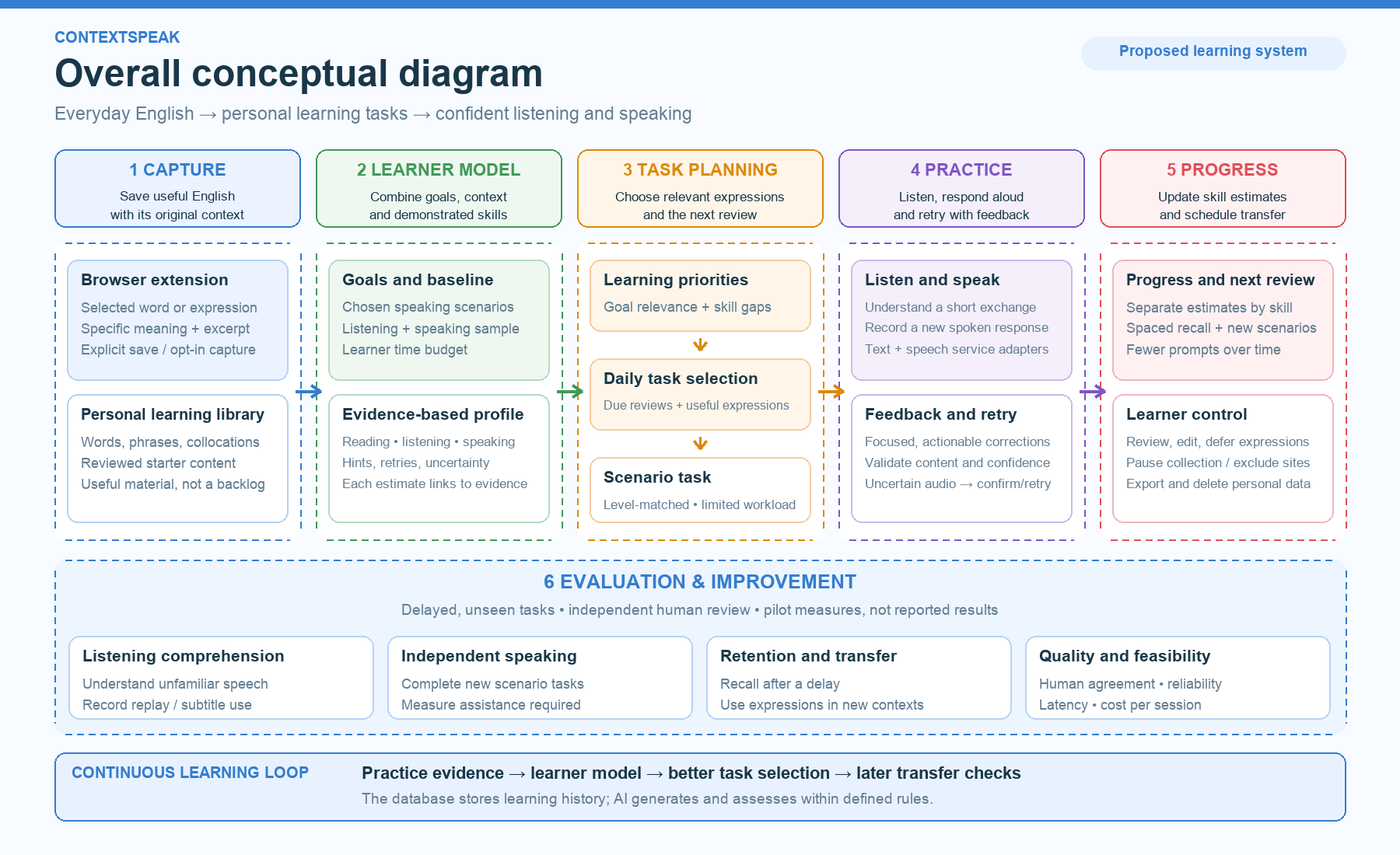
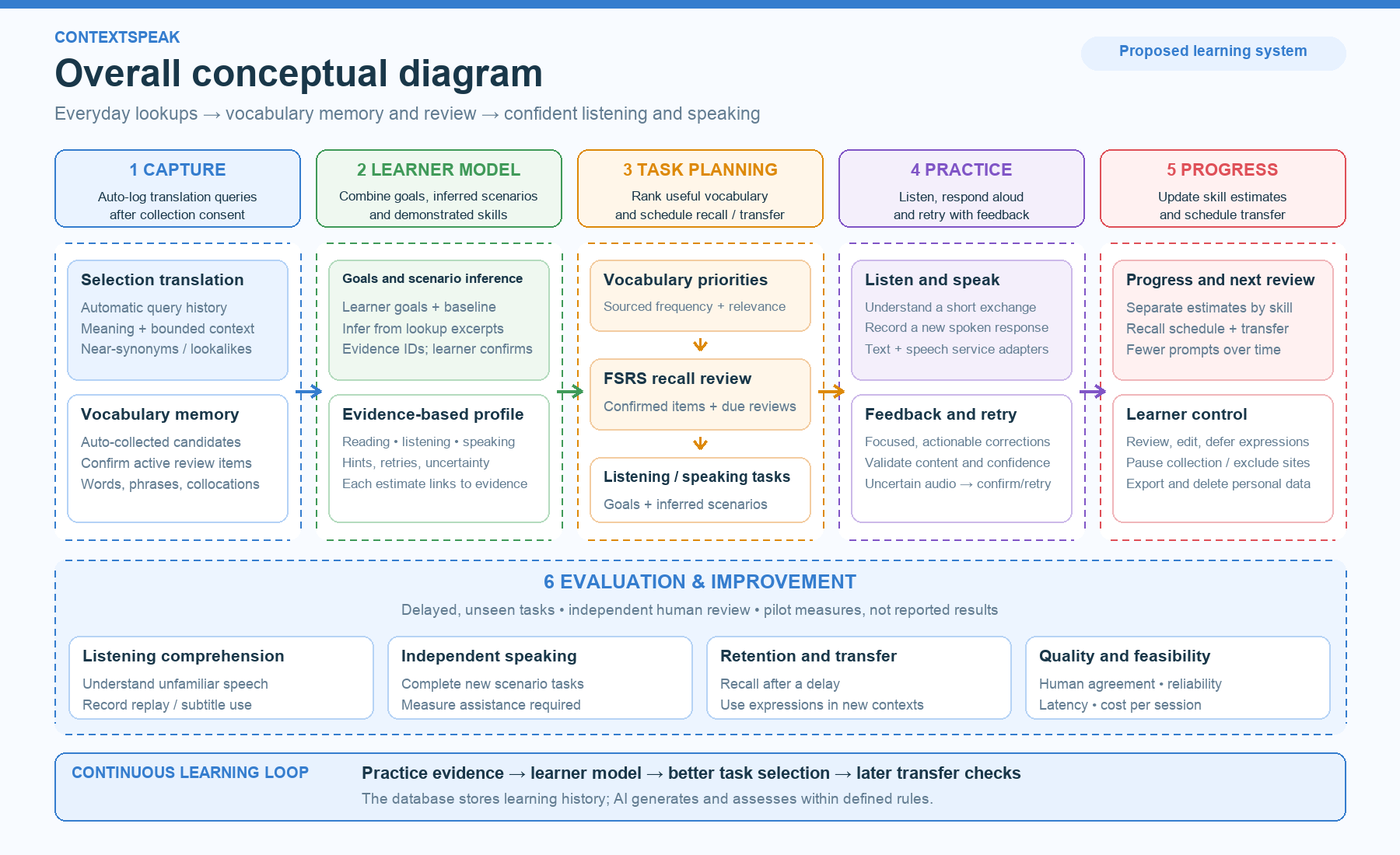
docs: align client requirements and plan first coding slice

diff --git a/docs/ARCHITECTURE.md b/docs/ARCHITECTURE.md
@@ -1,71 +1,82 @@
 # Architecture design
 
-## Technology
+## Stack and service choices
 
-Proposed TypeScript stack: WXT + React extension, Next.js website, NestJS modular backend, PostgreSQL, Redis/BullMQ workers, and private S3-compatible audio storage. Use direct model/speech SDKs behind provider adapters.
+TypeScript throughout: WXT + React extension, Next.js website, NestJS modular backend, PostgreSQL, Redis/BullMQ workers, and private S3-compatible audio storage. Start with SQL retrieval and direct SDKs; RAG, LangChain, separate Python services, and microservices are deferred.
 
-Start with SQL retrieval. Add semantic retrieval/RAG only when needed; no dedicated crawler, LangChain, Python service, or microservices split is required for MVP.
+| Capability | Initial proposal |
+| --- | --- |
+| Selection translation | DeepL official API behind `TranslationProvider`; compare Microsoft Translator during M0. Use a deterministic fixture adapter for local development. |
+| Definitions and spelling candidates | `LexicalProvider` with a separately approved dictionary; no bundled dictionary until license review. Development uses original fixture entries. |
+| Meaning/examples and scenario inference | Structured-output text adapter, asynchronous expansion/inference, validation and reviewed fallback. |
+| Word frequency | Versioned `FrequencyProvider`; source/license decision required before pilot; missing data is explicit. |
+| Recall scheduling | ts-fsrs behind a pure review adapter; pin version and preserve license notices when installing. |
+| Listening and conversation | Separate speech-recognition/text/synthesis adapters; providers chosen after quality/cost trials. |
+
+Use only authorized official service credentials. Cache lexical/translation results only as permitted, keyed by language, sense/context, and provider version; keep private context scoped to its owner. Do not silently send content to an alternate provider on failure.
 
 ## Components
 
 ```mermaid
 flowchart TB
-    extension["Chrome extension"] --> api["API: authentication and ownership"]
-    web["Learning website"] --> api
-    api --> library["Library and sync"]
-    api --> planner["Task planning and review"]
-    api --> practice["Practice and assessment"]
+    extension["Extension: translate, auto-log, expand"] --> api["API and ownership checks"]
+    web["Responsive learning website"] --> api
+    api --> library["History and vocabulary memory"]
+    api --> planning["Scenario inference, ranking, FSRS"]
+    api --> practice["Listening, speaking, assessment"]
+    api --> adapters["Translation and lexical adapters"]
+    adapters --> translation["Official translation / dictionary services"]
     library --> db["PostgreSQL and transactional outbox"]
-    planner --> db
+    planning --> db
     practice --> db
     practice --> audio["Private audio storage"]
-    practice --> ai["Provider adapters"]
     db -->|"Outbox dispatcher"| queue["Job queue"]
-    queue --> workers["Workers"]
-    workers --> ai
+    queue --> workers["Expansion, inference, audio workers"]
     workers --> db
+    workers --> ai["Text and speech adapters"]
     workers --> audio
-    ai --> providers["Text, speech recognition, speech synthesis"]
+    ai --> providers["Model and speech providers"]
 ```
 
-One backend deployment with clear modules and separately runnable workers. Longer generation, assessment, and cleanup jobs expose status and recoverable errors.
+One modular backend plus workers. The website supports PC/mobile browsers; mobile-wide selection capture is not provided by the desktop extension. PWA/native capabilities are separate roadmap work.
 
 ## Core flows
 
-**Capture:** user saves selected text → durable local outbox → authenticated API → database commit → acknowledgement. Scope event IDs by user for deduplication; retries return the same result. Keep state durable because extension service workers can stop.
+**Lookup:** detect explicit selection-translation request → check collection settings/site eligibility → persist eligible event in durable local outbox → translate via backend → acknowledge committed history/candidate. Capture intent does not depend on translation success. Collection-off requests can translate without persisting learner content. Expansion has independent loading/failure states.
 
-**Practice:** planner selects relevant items → validated exercise → listening and recorded response → authorized audio upload → speech recognition and assessment → eligible skill update → next review. Typed alternatives do not count as spoken evidence.
+**Sync:** scope client event ID by authenticated owner; commit encounter, candidate upsert, and job outbox atomically. Same event replay has no additional side effects; a later genuine lookup of the same expression is a new encounter. Preserve unresolved meanings. Local state survives extension-worker suspension.
+
+**Personalization:** eligible history batch → scenario suggestions with source IDs/confidence → learner confirmation → versioned priorities and daily tasks. Activation is separate from collection; review submission updates FSRS once. Assessment-based reading/listening/speaking updates use separate evidence rules.
+
+**Voice:** validated task → user-initiated recording → bounded private upload → recognition/assessment → feedback and eligible skill update. Typed fallback preserves progress but is not spoken evidence.
 
 ## Data model
 
 | Group | Records |
 | --- | --- |
-| Learner | User, goals, consent/preferences |
-| Library | Learning item (specific sense/expression), source encounter |
-| Practice | Versioned exercise, attempt, hint/replay use, retry relationship |
-| Evidence | Assessment, rubric/model version, confidence, eligibility |
-| Progress | Separate skill states, review schedule |
-| Operations | Audio asset, outbox event, job status, usage/cost event |
+| Learner | User, goal, collection consent/preferences |
+| Memory | LookupEvent, LearningItem (candidate/active/archived), Encounter link, LexicalSuggestion |
+| Personalization | ScenarioSuggestion with evidence IDs, accepted goal link, versioned PriorityScore/frequency provenance |
+| Practice | Exercise, Attempt, hints/replays, retry relationship, explicit RecallRating |
+| Evidence and progress | Assessment/version/confidence/eligibility, SkillState, FSRS ReviewSchedule |
+| Operations | AudioAsset, transactional OutboxEvent, Job, content-free UsageEvent |
 
-Store attempts as evidence and skill states as rebuildable projections. Preserve ownership on every relationship; apply an assessment update once. Model context is not the persistent memory store.
+Attempts are evidence; skill states are rebuildable projections. Require ownership across linked records and idempotent updates. Define API contracts for the first flow in the [coding plan](superpowers/plans/2026-11-07-capture-to-library.md).
 
-## Reliability and privacy
+## Operational rules
 
-- Save domain changes and outbox events in one transaction. Use idempotent workers, bounded retries, timeouts, and provider budgets; repeated external calls can still incur charges.
-- Collect only selected text and bounded context; exclude forms and credentials, sanitize source URLs, and support pause/site exclusions.
-- Derive ownership from the authenticated session; enforce it in APIs, jobs, and storage. Protect cookie-authenticated changes from CSRF.
-- Keep secrets server-side, audio private, access URLs short-lived, and raw learner content out of general logs.
-- Treat webpage excerpts as untrusted data. Validate model output and use reviewed fallback tasks when generation fails.
-- Deletion revokes access, tombstones the account, cancels jobs, and removes active data/audio. Late jobs and restored backups must honor deletion; retention periods are set before pilot.
+- Bound excerpt length, recording size/duration, retries, provider concurrency, and per-user spending. Monitor errors, p50/p95 latency, queue age, and session cost.
+- Exclude forms/credentials/restricted pages, strip URL query strings/fragments, and honor consent/site changes before sending queued content. Never collect full history or record in the background.
+- Authenticate server-side; enforce owner scoping in API, worker, and storage. Protect cookie-based changes from CSRF. Secrets stay server-side; logs exclude raw excerpts, recordings, tokens, and signed URLs.
+- Treat excerpts as untrusted data; validate model outputs and provide reviewed fallbacks. A model cannot assign itself tool permissions.
+- Use transactional outbox, idempotent workers, timeouts, bounded retry, and visible failures. Duplicate external calls may still cost money.
+- Account deletion revokes access, tombstones the user, cancels work, and removes active data/audio. Late jobs and restored backups honor tombstones; agree retention before pilot.
+- Separate dev/staging/production. Verify ownership, retry/consent races, evidence eligibility, deletion, restore, and the full journey before release.
 
-## Delivery structure
-
-Proposed workspace: `apps/{extension,web,api,worker}` and `packages/{contracts,learning-core,ai-adapters,ui}`. Pin versions when scaffolding.
-
-Separate development, staging, and production. Verify sync retries, ownership, assessment eligibility, audio failure, deletion, and capture-to-practice behavior. Monitor latency, queue age, errors, and session cost; rehearse backup restore and rollback before pilot. Scale from measured load.
+Proposed workspace: `apps/{extension,web,api,worker}`, `packages/{contracts,learning-core,ai-adapters,ui}`. Scaffold only the pieces needed for the first slice, with pinned compatible versions.
 
 ## References
 
-- [WXT](https://wxt.dev/)
-- [Chrome content scripts](https://developer.chrome.com/docs/extensions/develop/concepts/content-scripts)
-- [Chrome service workers](https://developer.chrome.com/docs/extensions/develop/concepts/service-workers)
+- [WXT](https://wxt.dev/), [Chrome service workers](https://developer.chrome.com/docs/extensions/develop/concepts/service-workers)
+- [DeepL API](https://developers.deepl.com/docs/getting-started/quickstart), [Microsoft translation](https://learn.microsoft.com/en-us/azure/ai-services/translator/text-translation/overview)
+- [NestJS authentication](https://docs.nestjs.com/security/authentication)

diff --git a/docs/superpowers/plans/2026-11-07-capture-to-library.md b/docs/superpowers/plans/2026-11-07-capture-to-library.md
@@ -1,0 +1,73 @@
+# Capture-to-Library Implementation Plan
+
+> **For agentic workers:** Use superpowers:executing-plans to implement this plan task-by-task. Steps use checkboxes for tracking.
+
+**Goal:** Demonstrate one consented selection-translation query appearing once in the same learner's website history and vocabulary candidates.
+
+**Architecture:** WXT extension → authenticated NestJS API → PostgreSQL → Next.js library. Use deterministic translation fixtures first; integrate DeepL only after the flow works. This is a local developer slice, not a pilot release or completed M1.
+
+**Tech Stack:** TypeScript, pnpm workspace, React/WXT, Next.js, NestJS, PostgreSQL, Prisma, Zod, Vitest, Supertest, Playwright; proposed implementation defaults, versions pinned during scaffold.
+
+**Spec:** [Architecture](../../ARCHITECTURE.md), [methodology](../../METHODOLOGY.md), [product plan](../../PLANNING.md).
+
+## Global constraints
+
+- English throughout; independent implementation, no FluentRead code/assets.
+- Collection-off requests can translate without persisting learner content.
+- Persist eligible lookup intent independently of translation success.
+- Derive ownership from verified identity, never a client owner field.
+- No paid calls, speech, inferred scenarios, or queue infrastructure needed for this slice.
+
+## Review focus
+
+- Consent revoked while a query is queued: discard it before upload (Task 3).
+- Same event ID with changed payload: reject conflict, do not overwrite (Task 2).
+- Another learner uses the same event ID: isolate records by owner (Task 2).
+- Translation fails after capture: retain pending history and show retry (Tasks 2/4).
+- Ambiguous sense or a repeated word: preserve unresolved sense and separate encounters (Task 2).
+
+## Task 1 — Contracts and authenticated API boundary
+
+**Files:** root `package.json`, `pnpm-workspace.yaml`, `compose.yaml`, `.env.example`; `packages/contracts/src/lookup.ts`; `apps/api/src/auth/{identity,jwt.guard}.ts`; `apps/api/test/auth.e2e-spec.ts`.
+
+**Interfaces:** `LookupInput = { eventId: UUID; text: string; context?: string; sourceUrl?: string; sourceLanguage: string; targetLanguage: string }`; `Identity = { issuer: string; subject: string }`; `verifyBearer(token: string): Promise<Identity>`. Text limit: 200 Unicode code points; context: 1,000; canonical source URL excludes credentials/query/fragment. No client-supplied owner.
+
+- [ ] Scaffold only contracts, API, web, and extension workspaces; pin compatible versions and add root `typecheck`/`test` scripts.
+- [ ] Add `rejects_missing_expired_wrong_audience_and_unsigned_tokens` using a local test JWKS issuer; assert HTTP 401 and no domain writes. Run `pnpm --filter @contextspeak/api test -- auth.e2e-spec.ts`; confirm failure before the guard exists.
+- [ ] Implement signature, issuer, audience, and expiry validation. Resolve identity by issuer+subject. Synthetic short-lived test identities support local development only; no production auth bypass or registration endpoint.
+- [ ] Run the test and `pnpm typecheck`; require passes. Commit the boundary. Real hosted login/pairing is required before pilot and is outside this slice.
+
+## Task 2 — Durable history and candidate API
+
+**Files:** `apps/api/prisma/schema.prisma`; `apps/api/src/library/{library.controller,library.service,translation.provider}.ts`; `apps/api/test/library.e2e-spec.ts`.
+
+**Interfaces:** `POST /v1/lookups` consumes `LookupInput` and returns `{ lookupId, candidateId, translationStatus: 'pending' }`; `GET /v1/lookups?limit=20&cursor=...` returns owned history; `GET /v1/learning-items` returns owned candidates. `TranslationProvider.translate(input): Promise<{ meaning: string; provider: string }>` uses original fixture entries. Reject capture with HTTP 403 when server collection consent is off. `POST /v1/translations` works without collection and does not persist request text.
+
+- [ ] Write integration tests against local PostgreSQL: `replay_is_idempotent`, `changed_payload_conflicts` (409), `same_id_different_owner_is_isolated`, `real_repeat_adds_encounter`, `unresolved_sense_is_preserved`, `collection_off_does_not_write`, `translation_failure_keeps_lookup`. Assert event/item counts and owner-filtered responses. Run `pnpm --filter @contextspeak/api test -- library.e2e-spec.ts`; confirm failures.
+- [ ] Implement transactions and unique `(userId, eventId)` constraint; normalize surface/language, preserve unresolved sense, and link subsequent encounters without pretending sense certainty. Replay returns the original IDs; translation failure cannot roll back capture.
+- [ ] Implement bounded local translation dispatch and pending/failed status; pending work resumes on local API startup. No Redis dependency yet. Reject conflicts, invalid lengths, invalid URLs, and unsupported fixture pairs without a successful fake translation.
+- [ ] Run integration tests, migrations on a fresh local database, and typecheck. Commit. Async expansion, real dictionary data, and production outbox dispatch remain subsequent M1 work.
+
+## Task 3 — Extension capture and replay
+
+**Files:** `apps/extension/entrypoints/{content,background}.ts`; `apps/extension/src/{outbox,settings}.ts`; `apps/extension/test/outbox.test.ts`.
+
+**Interfaces:** `enqueueLookup(input: LookupInput): Promise<void>`; `flushOutbox(): Promise<void>`; `CollectionSettings = { enabled: boolean; excludedOrigins: string[] }`. Each genuine query receives a new UUID; retries reuse it. Auth uses a local short-lived test token for this developer demo, never an API key; expired identity pauses sync.
+
+- [ ] Test `offline_replay_survives_restart`, `ack_lost_replays_same_id`, `revoked_consent_discards_pending`, `excluded_origin_never_captures`, and `expired_identity_pauses_without_loss`. Run `pnpm --filter @contextspeak/extension test -- outbox.test.ts`; confirm failures.
+- [ ] Persist eligible queries in extension-local storage before upload. Recheck current consent and site eligibility before transmission; sanitize/exclude form inputs and restricted pages. Show pending, failed, and synchronized states. Consent-off translation sends no collection event.
+- [ ] Run tests and load the unpacked extension on a local fixture webpage. Verify one query, then offline/restart/replay. Commit.
+
+## Task 4 — Website and end-to-end proof
+
+**Files:** `apps/web/app/library/page.tsx`; `apps/web/src/api.ts`; `tests/e2e/capture-to-library.spec.ts`; update root `README.md` with actual setup commands.
+
+**Interfaces:** Display the history/candidate responses from Task 2 under the same verified identity. Candidate status is visible; activation and FSRS are the next slice, not fake completed features.
+
+- [ ] Write an end-to-end test using a persistent Chromium context, unpacked extension, local test identities, API, database, and fixture webpage. Assert the selected expression appears once on the website, event replay adds no row, a second genuine lookup adds an encounter, a different identity cannot see it, and a translation error leaves history visible. Run `pnpm test:e2e`; confirm failure before UI implementation.
+- [ ] Implement the library, translation/pending/error display, and local-demo identity wiring; no hidden production bypass. Make the fixture test suite independent of paid providers.
+- [ ] Run `pnpm typecheck`, `pnpm test`, and `pnpm test:e2e`; require all passes. Perform a real Chrome manual check because extension behavior can differ from the automated Chromium harness. Record supported versions and exact setup commands; commit.
+
+## Exit and next slice
+
+Done means a real extension query is durable, private to its learner, replay-safe, and visible on the website. It does not mean the product is pilot-ready. Next: real login/pairing + translation/lexical expansion to finish M1, then confirmed activation + FSRS review, followed by voice and scenario inference. Review this plan before application scaffolding.

diff --git a/docs/PLANNING.md b/docs/PLANNING.md
@@ -1,39 +1,52 @@
 # Product plan
 
-## MVP scope
+## Requirements mapping
 
-| Surface | Included |
+| Client requirement | MVP response |
 | --- | --- |
-| Chrome extension | Contextual selection translation, saved expressions, minimal source context, retryable sync |
-| Learning website | Goals, baseline assessment, personal library, daily tasks, listening, recorded conversation, progress |
-| Account controls | Shared login, collection preferences, export, and deletion |
+| Automatic personal vocabulary memory | After consent, every selection-translation query enters history and produces a vocabulary candidate; confirmed items enter scheduled review. |
+| Infer language-use scenarios | Suggest scenarios from authorized lookup context, with evidence and learner correction; no full browsing-history collection. |
+| Prioritize high-frequency words | Rank useful learning items using a sourced frequency signal, personal context, goals, and reliable skill gaps. |
+| Know what the learner has mastered | Separate reading, listening, and independent speaking estimates with traceable practice evidence. |
+| Expand vocabulary during lookup | Show up to two useful near-synonyms and two spelling lookalikes asynchronously, with differences and examples where appropriate. |
+| Generate listening/speaking practice | Use confirmed vocabulary and learner scenarios for level-matched tasks and delayed transfer. |
+| Extension, PC, and mobile | Chrome desktop extension plus responsive website on PC/mobile; native apps follow usage validation. |
+| Multiple languages and school roles | Adult English is the first segment; multilingual and teacher/student support are later phases. |
 
-Initial proposal: adult learners, a small set of everyday/work scenarios, optional 10–15 minute sessions, explicit saving by default, and turn-based voice. Reviewed starter tasks support users with no saved expressions.
+Automatic history/candidates versus confirmed review enrollment is a proposed compromise to validate before pilot. Do not silently treat the narrower first segment as the complete client deliverable.
 
-Deferred: native apps, school roles, broad crawling, background recording, full-duplex voice, and custom model training.
+## Delivery roadmap
 
-## Delivery milestones
+| Stage | Deliverable and acceptance |
+| --- | --- |
+| M0 — Validate | Confirm first three scenarios, collection consent, speech quality, provider costs, and pilot gates. Prototype the journey. |
+| M1 — Capture and remember | Login, selection translation/expansion, automatic history/candidates, library, and durable sync; verify no duplicate events or lost acknowledged queries. |
+| M2 — Review and practice | Confirm active items; FSRS-based explicit recall review; listening and recorded responses; recover from microphone, upload, and provider failures. |
+| M3 — Personalize | History-based scenario suggestions, sourced word priorities, and skill updates; learner can inspect/correct suggestions; low-confidence/assisted attempts do not inflate mastery. |
+| M4 — Pilot | Export/deletion, usage limits, monitoring, restore rehearsal, responsive-device checks, and held-out learning evaluation. |
+| P2 — Expand access | Evaluate installable PWA/offline support and native mobile apps; desktop-native capture only if demand justifies it. |
+| P3 — Education and languages | Teacher/student permissions, class goals, approved curriculum content, minors safeguards, and additional languages. |
 
-| Milestone | Deliverable | Acceptance criteria |
-| --- | --- | --- |
-| M0 — Validate | First scenarios, clickable journey, speech feasibility | Learners understand the flow; measure speech quality, latency, and session cost; agree pilot thresholds. |
-| M1 — Capture | Login, translation, library, sync | Saved expressions appear on the website; offline/repeated submission does not lose or duplicate acknowledged saves. |
-| M2 — Practice | Listening, recorded responses, feedback, retry | Complete a session; recover from denied microphone access, upload failure, and provider errors. |
-| M3 — Adapt | Skill estimates and scheduled reviews | Each update links to eligible evidence; hints, retries, and uncertainty affect eligibility correctly. |
-| M4 — Pilot | Monitoring, privacy controls, release package | Verify user isolation, deletion, restore, usage limits, and end-to-end flow; review learning outcomes. |
+M0–M4 are ordered milestones, not promised dates. P2/P3 require separate scoping and budget. Broad crawling, background recording, full-duplex voice, and custom model training remain outside MVP.
 
-M0 → M1 → M2 → M3 → M4. Assign owners and estimate effort after feasibility work; no delivery dates or budget are committed.
+## Illustrative monthly costs
 
-## Pilot measures
+**Assumptions, not vendor quotes:** 30 active days; each DAU consumes 10,000 input and 4,400 output text tokens daily. Economy rates are assumed at $0.10/$0.40 per million input/output tokens; premium at $2.50/$7.50. No caching or batching savings assumed.
 
-Use the [learning evaluation](METHODOLOGY.md#evaluation) for outcomes. Also track session completion/return, capture and upload success, p50/p95 latency, and cost per completed session. Set numerical thresholds before recruiting the pilot.
+| Daily active users | All economy text | All premium text | Illustrative speech addition |
+| --- | --- | --- | --- |
+| 100 | $8.28 | $174 | $315 |
+| 10,000 | $828 | $17,400 | $31,500 |
+| 1,000,000 | $82,800 | $1,740,000 | $3,150,000 |
 
-Cost estimate: active learners × sessions per learner × variable session cost, plus hosting, operations, and support. Five million users is a long-term ambition; capacity planning needs measured activity and concurrency.
+Speech assumption: 5 recognized minutes at $0.006/minute plus 5 generated minutes at an equivalent $0.015/minute per DAU/day; actual billing units vary. Text cost = DAU × 30 × (0.01 × input rate + 0.0044 × output rate). Speech cost = DAU × 30 × $0.105.
 
-## Decisions before implementation
+Excluded: translation API charges, dictionary/content licenses, hosting, storage/egress, operations/support, taxes, retries, and separate onboarding/batch analysis. Five million registered users does not imply one million DAU. Replace assumptions with dated provider quotes and measured usage before budgeting. Route routine work to lower-cost services and reserve stronger models for difficult assessments.
 
-- First three scenarios, release geography, and supported devices.
-- Team capacity, budget, timeline, pricing, and usage caps.
-- Authentication, model, speech, and hosting providers.
-- Audio retention, deletion turnaround, backup expiry, and consent wording.
-- Pilot sample, success thresholds, human review capacity, and distribution license.
+## Pilot and open decisions
+
+Use [held-out learning evaluation](METHODOLOGY.md#evaluation), plus session return/completion, sync/upload reliability, p50/p95 latency, and completed-session cost. Set numerical gates and sample size before recruitment.
+
+Before external pilot: confirm release geography, first scenarios, team/budget/timeline, identity provider, dictionary/frequency permissions, translation/model/speech providers, retention/deletion/backup periods, commercial license/brand clearance, and quotas. Framework-only local development and synthetic provider tests can begin before these purchasing decisions.
+
+**Start coding:** implement the [capture-to-library slice](superpowers/plans/2026-11-07-capture-to-library.md) first; add recall review second, then voice and inferred scenarios.

diff --git a/docs/METHODOLOGY.md b/docs/METHODOLOGY.md
@@ -1,44 +1,53 @@
 # Learning methodology
 
-## Approach
+## Collection and vocabulary memory
 
-Combine a structured scenario path with personal expressions. Goals set the direction, saved context supplies relevant material, and practice provides evidence. The daily plan continues even without new browsing activity.
+After explicit onboarding consent, automatically log selection-translation queries with bounded context; users can pause, exclude sites, or delete records. Translation still works when collection is off. Repeated words remain separate encounters, while normalized sense/expression candidates share a library item. Ambiguous senses remain unresolved rather than silently merged.
 
-## Learning cycle
+Keep three states: query history → vocabulary candidate → confirmed active review item. Automatic collection does not mean every lookup becomes a mandatory review. Learners can archive, activate, or defer items; reviewed starter content supports an empty library.
 
-1. Set goals and complete an optional listening/speaking baseline.
-2. Save a specific word sense, phrase, or useful expression with its original context.
-3. Select tasks by goal relevance, usefulness, due reviews, and reliable recent errors; cap the daily workload.
-4. Listen and answer a comprehension question, then respond aloud to a new situation.
-5. Receive a few actionable corrections and retry with less support.
-6. Revisit the expression later with different wording, speakers, or context.
+## Scenario inference and priorities
 
-Example: `Are you available for a quick call?` becomes a task to negotiate a new meeting time, then a later task to change a restaurant reservation.
+Analyze only authorized lookup excerpts and practice, not complete browsing history. Batch inference after 10 new eligible encounters, or on learner request; sparse evidence displays an insufficient-data state. This initial threshold is a tunable proposal. Return scenario label, confidence, and supporting encounter IDs. Suggestions require confirmation and cannot override declared goals; users can reject/reset them.
+
+Normalize each score to [0,1] and start with this explainable ranking:
+
+`priority = 0.30 goal relevance + 0.25 personal encounter frequency + 0.20 general frequency + 0.15 reliable skill gap + 0.10 review urgency`
+
+Use capped log-scaled eligible encounter counts for personal frequency; unknown skill is neutral (0.5). Review urgency comes from the scheduler, and zero is used for unscheduled items. Exclude ignored/archived items before ranking. Missing general frequency is marked unavailable and remaining weights are renormalized; do not invent a model-based frequency value. These starting weights require pilot calibration.
+
+General frequency needs a versioned source and redistribution permissions. Candidate sources include SUBTLEX-US or wordfreq; neither is approved for bundling yet. Development uses explicitly synthetic fixture scores. Separate corpus/phrase frequency from personal recurrence; infrequent but goal-critical expressions may still rank highly.
+
+## Lookup-time expansion
+
+For each lookup, request up to two context-relevant near-synonyms and two spelling lookalikes in the same panel, without delaying the base translation. Show a short usage contrast and example. Phrase/nonword lookups may have no sensible spelling alternatives; show fewer rather than inventing them. Frequency badges require source evidence. Suggestions enter scheduled review only after confirmation.
+
+## Review and listening/speaking cycle
+
+1. Set goals and complete an optional baseline; skipped assessment uses conservative defaults.
+2. Activate useful vocabulary; apply FSRS to explicit recall ratings (Again, Hard, Good, Easy), with default parameters until sufficient history exists.
+3. Combine due items and goal-relevant expressions into a bounded daily scenario task.
+4. Listen and demonstrate comprehension, then record an independent response.
+5. Receive focused feedback, retry with less assistance, and later test a different scenario or speaker.
+
+Example: `Are you available for a quick call?` becomes a meeting-time negotiation, then a later restaurant-reservation task. The plan continues without fresh browsing activity. Speaking-transfer selection is separate from FSRS recall ratings.
 
 ## Mastery evidence
 
-| Dimension | Evidence |
+| Skill | Evidence |
 | --- | --- |
-| Reading | Understand the specific meaning in a new sentence. |
-| Listening | Understand speech while recording subtitles, replay, and hint use. |
-| Speaking | Independently communicate the intended meaning in a new situation. |
+| Reading | Understand a specific sense in an unseen sentence. |
+| Listening | Understand speech while tracking subtitle, hint, and replay use. |
+| Speaking | Communicate the intended meaning independently in a new situation. |
 
-A lookup is only a signal. Shadowing and answer-assisted retries are practice, not independent speaking evidence. Noisy recordings or unreliable transcription trigger confirmation/re-recording rather than an automatic penalty. Learners can correct transcripts.
-
-Track task difficulty, assistance, confidence, and assessment version. Judge communication and intelligibility; do not equate accent imitation with proficiency.
-
-## Review and expansion
-
-Separate saved material from the active review queue. Evaluate FSRS for clearly scored recall tasks; schedule listening/speaking transfer separately. Do not directly convert every AI conversation score into a memory rating.
-
-Offer a small number of useful synonyms or confusing lookalikes with usage differences. Validate frequency against a suitable lexical resource; do not automatically schedule every suggestion.
+A lookup is only a signal; shadowing or answer-assisted retries are not independent speaking tests. Track task version/difficulty, confidence, assistance, and retry relationships. Unreliable transcription prompts confirmation/re-recording rather than a penalty; corrected transcripts create a new assessment. Communication and intelligibility matter more than accent imitation. Do not map open-ended AI scores directly to FSRS ratings.
 
 ## Evaluation
 
-Compare baseline with delayed, unseen, level-matched tasks. Measure comprehension, independent task completion, assistance needed, and retained expressions. Human-review a sample of AI assessments across accents and recording conditions; keep evaluation tasks out of generated practice. Use a comparison design before attributing improvement to the product.
+Compare baseline with delayed, unseen, level-matched tasks. Measure comprehension, independent completion, assistance, and retention. Human-review AI assessments across accents/noise; keep held-out content out of generation. Evaluate scenario-suggestion acceptance/corrections and priority relevance. Use a comparison design before claiming causal improvement.
 
 ## References
 
 - [Task-based language teaching](https://www.cambridge.org/core/elements/taskbased-language-teaching/395B3D3B0F7078DF325579CC8314E38B)
-- [Spacing and retrieval practice](https://doi.org/10.1038/s44159-022-00089-1)
-- [FSRS](https://github.com/open-spaced-repetition/fsrs4anki/wiki/ABC-of-FSRS)
+- [Spacing and retrieval](https://doi.org/10.1038/s44159-022-00089-1)
+- [TypeScript FSRS implementation](https://github.com/open-spaced-repetition/ts-fsrs)

diff --git a/README.md b/README.md
@@ -1,31 +1,30 @@
 # ContextSpeak
 
-**Turn everyday English encounters into confident conversations.**
+**Build your vocabulary. Understand conversations. Speak with confidence.**
 
-A browser extension and learning website for adults who know some English and want to understand real conversations and speak more fluently.
+A browser extension and learning website that turns everyday English lookups into a personal vocabulary memory library, scheduled review, and contextual listening/speaking practice. The first release serves adults with basic English; broader language and school support follow later.
 
-将日常遇到的英语表达，转化为个性化听说练习。
-
-> Planning stage. No application has been implemented yet.
+> Planning stage. No application has been implemented yet. Scope and provider choices below are implementation proposals.
 
 ## System overview
 
-![ContextSpeak conceptual diagram: capture, learner model, planning, practice, progress, and evaluation](docs/assets/conceptual-diagram.png)
+![ContextSpeak: automatic lookup history, vocabulary memory, inferred scenarios, review, and listening/speaking practice](docs/assets/conceptual-diagram.png)
 
-[View editable SVG](docs/assets/conceptual-diagram.svg)
+[Editable SVG](docs/assets/conceptual-diagram.svg)
 
 ## Documentation
 
 | Document | Purpose |
 | --- | --- |
-| [Planning](docs/PLANNING.md) | MVP scope, milestones, acceptance criteria, and open decisions |
-| [Methodology](docs/METHODOLOGY.md) | Learning cycle, mastery evidence, and evaluation |
-| [Architecture](docs/ARCHITECTURE.md) | Technology, components, data flow, and operational rules |
+| [Planning](docs/PLANNING.md) | Requirements mapping, MVP, roadmap, costs, and decisions |
+| [Methodology](docs/METHODOLOGY.md) | Collection, scenario inference, word priorities, and mastery evidence |
+| [Architecture](docs/ARCHITECTURE.md) | Stack, translation/dictionary services, data flow, and safeguards |
+| [First coding plan](docs/superpowers/plans/2026-11-07-capture-to-library.md) | A bounded capture-to-library implementation with checks |
 
-## Project principles
+## Working principles
 
-- Personalize from goals, selected browsing context, and practice evidence.
-- Track reading, listening, and independent speaking separately.
-- Build independently; [FluentRead](https://github.com/FluentRead/FluentRead) is a reference only. No code, assets, or branding are copied.
+- After collection consent, automatically record each selection-translation query and derive vocabulary candidates; activation for scheduled review requires confirmation.
+- Combine learner goals, inferred scenarios, and separate reading/listening/speaking evidence.
+- Build independently. [FluentRead](https://github.com/FluentRead/FluentRead) is a functional reference, not a source of copied code or assets. This is not a legal clearance statement.
 
-A distribution license has not yet been selected.
+A distribution license is undecided. The diagram adapts a user-supplied layout reference; its ownership/permission and the ContextSpeak brand still need clearance before public release.
